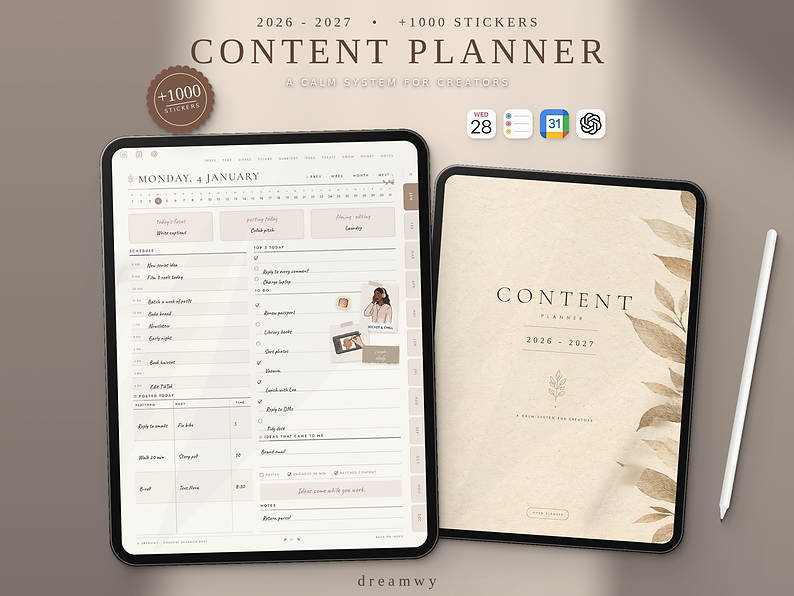
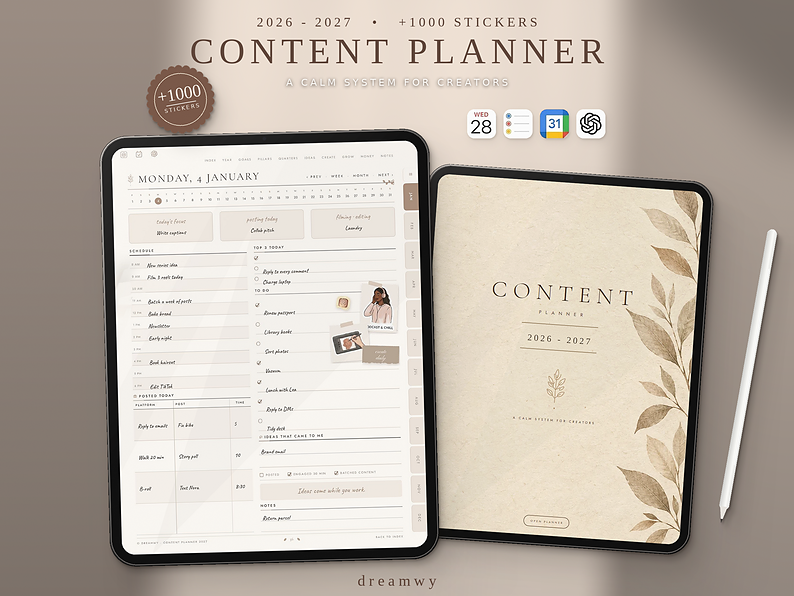
Content mockup: use the clean cover supplied by the author (year line set to 2026 - 2027)
Claude-Session: https://claude.ai/code/session_015ZGVvYxuW9E1f2kNKHXQzt

diff --git a/mockup/make_content_mockup.py b/mockup/make_content_mockup.py
@@ -1,7 +1,7 @@
 """Builds the CONTENT planner listing mockup (2400x1800), same style as make_college_mockup.py.
-Usage: python3 make_content_mockup.py <content_source.jpg> <out.png>
-<content_source> is the original 2000x2000 Content mockup: it supplies the cover, the daily page
-and the four app icons. The stylus lying on it is painted out; the schedule's hidden time labels
+Usage: python3 make_content_mockup.py <content_source.jpg> <content_cover.webp> <out.png>
+<content_source> is the original 2000x2000 Content mockup: it supplies the daily page and the four app icons.
+<content_cover> is the clean cover page supplied separately (no stylus, nothing hidden). The stylus lying on it is painted out; the schedule's hidden time labels
 (8, 9 and 10 AM), the clipped row rules and the top rule are re-drawn, so every entry stays visible."""
 import sys
 import math
@@ -13,11 +13,9 @@ except Exception:
     cv2 = None
 from PIL import Image, ImageChops, ImageDraw, ImageEnhance, ImageFilter, ImageFont
 
-SRC, OUT = sys.argv[1], sys.argv[2]
+SRC, COVER, OUT = sys.argv[1], sys.argv[2], sys.argv[3]
 W, H = 2400, 1800
 src = Image.open(SRC).convert("RGB")
-COVER_BOX = (175, 620, 912, 1736)    # visible part of the cover screen (the daily tablet's shadow starts at ~915)
-COVER_FULL_W = 797                   # real cover width: centred on its text (x=572.5), left edge x=175
 DAILY_BOX = (985, 642, 1825, 1758)   # daily page screen only
 TIP, END = np.array([707.0, 1775.5]), np.array([1056.7, 943.3])   # the stylus lying on the original
 
@@ -75,92 +73,31 @@ def pencil_mask(size, box, hl=48, hr=26, ext=6):
     return np.asarray(m.crop(box)) > 0
 
 
-# paper grain, measured on a clean patch of the cover, re-used to texture everything we repaint there
-_clean = np.asarray(src.crop((220, 650, 560, 900)).convert("L"), float)
-_bl = np.asarray(Image.fromarray(_clean.astype("uint8")).filter(ImageFilter.GaussianBlur(3)), float)
-GRAIN = _clean - _bl
-
-# ---- cover: take the stylus off, extend the strip hidden behind the daily tablet, show the two-year range
-cover = src.crop(COVER_BOX)
-cmask = pencil_mask(src.size, COVER_BOX, hl=27, hr=21)
-if cv2 is not None:
-    # patch-based fill so the watercolour leaves under the stylus keep their texture instead of turning into a smear.
-    # The centre text block is hidden from the patch search (so no letters get copied in) and pasted back afterwards.
-    TXT = (170, 330, 640, 780)                                    # x0, y0, x1, y1 in cover-crop coordinates
-    base = np.asarray(cover.convert("RGB")).copy()
-    guard = np.zeros(base.shape[:2], np.uint8); guard[TXT[1]:TXT[3], TXT[0]:TXT[2]] = 255
-    clean = cv2.inpaint(cv2.cvtColor(base, cv2.COLOR_RGB2BGR), guard, 9, cv2.INPAINT_TELEA)
-    m8 = cv2.dilate(cmask.astype("uint8") * 255, np.ones((3, 3), np.uint8))
-    out = np.zeros_like(clean)
-    cv2.xphoto.inpaint(clean, 255 - m8, out, cv2.xphoto.INPAINT_SHIFTMAP)
-    out = cv2.cvtColor(out, cv2.COLOR_BGR2RGB).astype(float)
-    # The patch fill has the right grain but its overall tone can drift (it prefers paper over leaf). So keep its fine
-    # detail and take the broad tone from a straight bridge between the colours on either side of the stylus, row by row.
-    Hh, Ww = m8.shape
-    Lc = np.full((Hh, 3), np.nan); Rc = np.full((Hh, 3), np.nan); runs = {}
-    for y in range(Hh):
-        xs = np.flatnonzero(m8[y])
-        if len(xs):
-            a, b = xs.min(), xs.max(); runs[y] = (a, b)
-            if a - 8 >= 0: Lc[y] = base[y, a - 8:a].mean(0)
-            if b + 9 <= Ww: Rc[y] = base[y, b + 1:b + 9].mean(0)
-
-    def _vsmooth(c, sg=5):
-        ok = (~np.isnan(c[:, 0])).astype(float); v = np.nan_to_num(c)
-        k = _k(sg)
-        num = _conv(v * ok[:, None], k, 0); den = _conv(ok, k, 0)
-        return np.where(den[:, None] > 1e-3, num / np.maximum(den, 1e-6)[:, None], np.nan), ok > 0
-    Ls, Lok = _vsmooth(Lc); Rs, Rok = _vsmooth(Rc)
-    interp = out.copy()
-    for y, (a, b) in runs.items():
-        xs = np.arange(a, b + 1); t = ((xs - a + 0.5) / (b - a + 1))[:, None]
-        l = Ls[y] if not np.isnan(Ls[y, 0]) else None; r = Rs[y] if not np.isnan(Rs[y, 0]) else None
-        if l is not None and r is not None: interp[y, a:b + 1] = l * (1 - t) + r * t
-        elif l is not None: interp[y, a:b + 1] = l
-        elif r is not None: interp[y, a:b + 1] = r
-    hp = out - cv2.GaussianBlur(out.astype("float32"), (0, 0), 9)
-    out = np.where(m8[..., None] > 0, interp + hp, out)
-    soft = cv2.GaussianBlur(m8.astype("float32") / 255, (0, 0), 1.6)[..., None]
-    comp = base.astype(float) * (1 - soft) + out * soft
-    comp[TXT[1]:TXT[3], TXT[0]:TXT[2]] = base[TXT[1]:TXT[3], TXT[0]:TXT[2]]
-    cover = Image.fromarray(np.clip(comp, 0, 255).astype("uint8"))
-else:
-    cover = fill_region(cover, cmask, 14, 14, tex=GRAIN)
-# The right ~60 px of the real cover are hidden behind the daily tablet in the original. Instead of mirroring them
-# (which duplicates the cut-off leaf), ease-stretch the last 200 px of artwork over 260 px: gentle at the left, widest at the edge.
-BAND_SRC, BAND_OUT = 320, 320 + (COVER_FULL_W - cover.width)
-x0 = cover.width - BAND_SRC
-uu = (np.arange(BAND_OUT) + 0.5) / BAND_OUT
-ss = BAND_SRC * (uu + 0.3 * uu * (1 - uu))                      # monotonic, ds/du: 1.0 -> 0.54
-arr = np.asarray(cover, float)
-band = np.empty((arr.shape[0], BAND_OUT, 3))
-i0 = np.clip(np.floor(ss - 0.5).astype(int), 0, BAND_SRC - 1); i1 = np.clip(i0 + 1, 0, BAND_SRC - 1)
-fr = (ss - 0.5 - i0)[None, :, None]
-src_band = arr[:, x0:, :]
-band = src_band[:, i0, :] * (1 - fr) + src_band[:, i1, :] * fr
-cover_full = np.concatenate([arr[:, :x0, :], band], axis=1)
-cover = Image.fromarray(np.clip(cover_full, 0, 255).astype("uint8"))
-assert cover.width == COVER_FULL_W
+# ---- cover: the clean cover supplied by the author (no stylus, no hidden edge); only the year line is changed to the two-year range
+cover_raw = Image.open(COVER).convert("RGB")                     # 584 x 815 (a page, a little taller than the 3:4 screen)
+cover_raw = cover_raw.crop((0, 24, cover_raw.width, cover_raw.height - 15))      # 3:4 like the daily screen; trims paper top/bottom only
+K2 = 2
+cover = cover_raw.resize((cover_raw.width * K2, cover_raw.height * K2), Image.LANCZOS)
+_g = np.asarray(cover.crop((60, 880, 360, 1080)).convert("L"), float)             # clean paper patch for grain
+GRAIN = _g - np.asarray(Image.fromarray(_g.astype("uint8")).filter(ImageFilter.GaussianBlur(3)), float)
 
 
 def cover_year(img, text="2026 - 2027"):
-    """Replace the single '2027' (and its two thin rules) on the cover with the two-year range."""
-    ox, oy = COVER_BOX[0], COVER_BOX[1]
-    cx = 572.5 - ox                                  # centre of the cover text column
-    m = np.zeros((img.height, img.width), bool)
-    m[1066 - oy:1170 - oy, int(cx) - 140:int(cx) + 141] = True
-    img = fill_region(img, m, 10, 10, tex=GRAIN)
-    k = 6
-    layer = Image.new("RGBA", (img.width * k, img.height * k), (0, 0, 0, 0))
-    ld = ImageDraw.Draw(layer)
-    for yy in (1079, 1155):                          # the two thin rules, widened to suit the longer text
-        ld.rectangle(((cx - 118) * k, (yy - oy) * k, (cx + 118) * k, (yy - oy + 1.4) * k), fill=(204, 178, 150, 255))
-    f = ImageFont.truetype("/usr/share/fonts/truetype/liberation/LiberationSerif-Regular.ttf", int(25 * k))
-    tr = 9 * k
-    widths = [ld.textlength(c, font=f) for c in text]
+    """Replace '2027' (and its two short rules) with '2026 - 2027' on the cover; coordinates are in the 2x image."""
+    cx = 289 * K2                                                  # the text column is centred here
+    oy = 24 * K2                                                   # rows trimmed from the top
+    m = np.zeros((img.height, img.width), bool); m[(326 * K2 - oy):(402 * K2 - oy), (222 * K2):(356 * K2)] = True
+    img = fill_region(img, m, 14, 14, tex=GRAIN)
+    k = 3
+    layer = Image.new("RGBA", (img.width * k, img.height * k), (0, 0, 0, 0)); ld = ImageDraw.Draw(layer)
+    for yy in (336, 392):                                          # the two thin rules, widened to suit the longer text
+        ld.rectangle(((cx - 84 * K2) * k, (yy * K2 - oy) * k, (cx + 84 * K2) * k, (yy * K2 - oy + 1.5 * K2) * k), fill=(168, 148, 116, 255))
+    f = ImageFont.truetype("/usr/share/fonts/truetype/liberation/LiberationSerif-Regular.ttf", int(19.5 * K2 * k))
+    tr = 4.4 * K2 * k
+    widths = [ld.textlength(ch, font=f) for ch in text]
     x = cx * k - (sum(widths) + tr * (len(text) - 1)) / 2
-    for c, w in zip(text, widths):
-        ld.text((x, (1131 - oy) * k), c, font=f, fill=(96, 76, 64, 255), anchor="ls")
+    for ch, w in zip(text, widths):
+        ld.text((x, (375 * K2 - oy) * k), ch, font=f, fill=(96, 80, 60, 255), anchor="ls")
         x += w + tr
     layer = layer.resize(img.size, Image.LANCZOS)
     img = img.convert("RGBA"); img.alpha_composite(layer)
